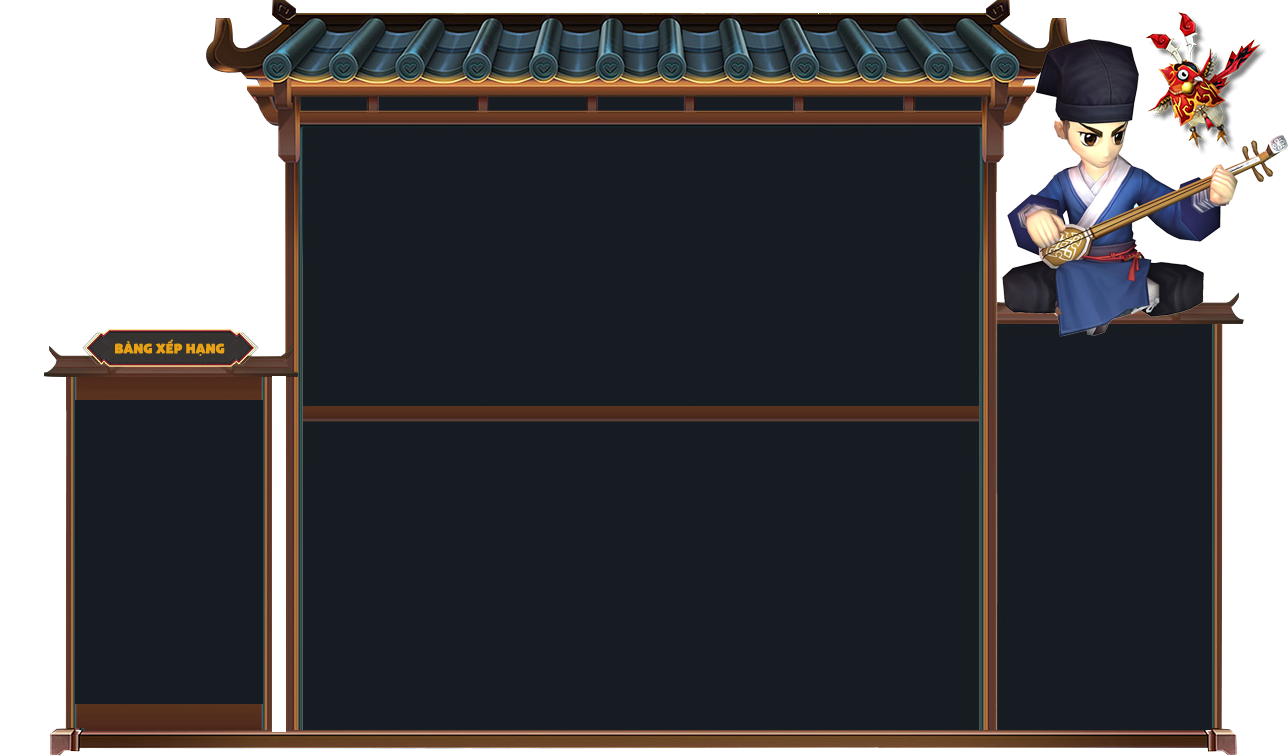
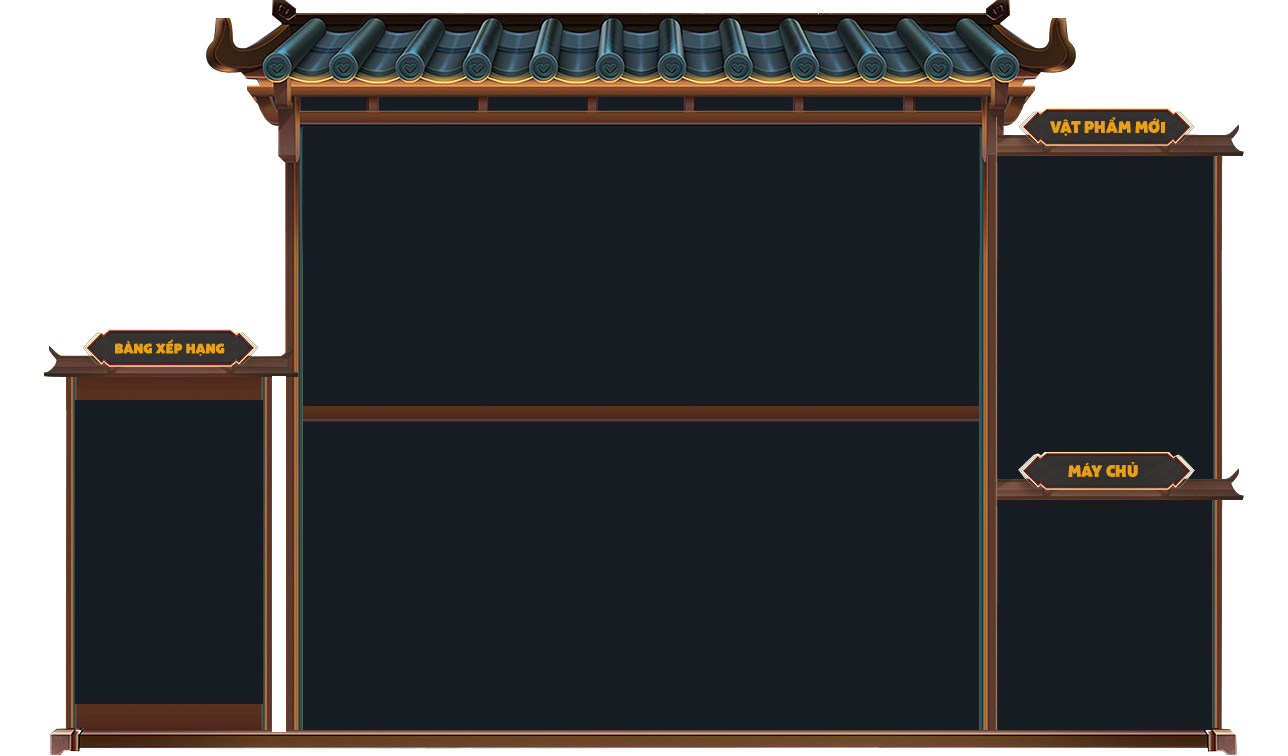
add modules

Changed region(s): [[0.7453, 0.0, 1.0, 0.4563], [0.7764, 0.578, 0.9627, 0.6693]]

diff --git a/assets/css/styles.css b/assets/css/styles.css
@@ -507,43 +507,12 @@ a:hover{
 .box-home-wrap__right{
 	width: 20.4rem;
 	right: 8rem;
-	top: 33.5rem;
+	top: 16.5rem;
 	position: absolute;
+	color: #ddd;
 }
 
-.lst-link{
-	margin: 2rem 0;
-}
-.lst-link li a{
-	padding: 1rem 0 1rem 4rem;
-	display: block;
-}
-.lst-link li{
-	position: relative;
-}
-.lst-link li + li::before{
-	content: "";
-	position: absolute;
-	width: 100%;
-	left: 50%;
-	top: 0;
-	height: 1px;
-	opacity: 0.5;
-	background-image: -moz-linear-gradient( 180deg, rgba(236,237,234,0) 0%, rgb(220,220,220) 49%, rgb(220,220,220) 50%, rgba(220,219,216,0) 100%);
-	background-image: -webkit-linear-gradient( 180deg, rgba(236,237,234,0) 0%, rgb(220,220,220) 49%, rgb(220,220,220) 50%, rgba(220,219,216,0) 100%);
-	background-image: -ms-linear-gradient( 180deg, rgba(236,237,234,0) 0%, rgb(220,220,220) 49%, rgb(220,220,220) 50%, rgba(220,219,216,0) 100%);
-	  
-	transform: translateX(-50%);
-}
-.lst-link li a img{
-	margin-right: 1rem;
-	width: 2rem;
-}
-.lst-icon{
-	display: flex;
-	gap: 2rem;
-	justify-content: center;
-}
+
 .box-home-wrap__center{
 	margin: 0 auto;
 	width: 68rem;
@@ -587,6 +556,23 @@ a:hover{
 	left: 7.5rem;
 	height: 30.4rem;
 	width: 18.8rem;
+}
+.box-ranking .img-light{
+	position: absolute;
+	left: -8.5rem;
+	top: -3rem;
+	pointer-events: none;
+	transform: rotate(4deg);
+	animation: lunglay 3s infinite alternate ease-in-out;
+	transform-origin: center top;
+}
+@keyframes lunglay {
+	0%{
+		transform: rotate(3deg);
+	}
+	100%{
+		transform: rotate(-3deg);
+	}
 }
 .box-ranking table{
 	width: 100%;
@@ -782,4 +768,140 @@ a:hover{
 	border-left: 4px solid #dab979;
 	font-size: 2rem;
 	margin-bottom: 3.2rem;
+}
+
+.l-footer__wrapper{
+	display: flex;
+	justify-content: space-between;
+}
+
+.lst-link{
+	display: flex;
+	justify-self: center;
+}
+.lst-link li a{
+	padding: 1rem 2rem;
+	display: block;
+}
+.lst-link li{
+	position: relative;
+}
+.lst-link li + li::before{
+	content: "";
+	position: absolute;
+	width: 100%;
+	left: 0;
+	top:  50%;
+	height: 2rem;
+	width: 1px;
+	opacity: 0.2;
+	transform: translateY(-50%);
+	background-image: -moz-linear-gradient( 90deg, rgba(236,237,234,0) 0%, rgb(220,220,220) 49%, rgb(220,220,220) 50%, rgba(220,219,216,0) 100%);
+	background-image: -webkit-linear-gradient( 90deg, rgba(236,237,234,0) 0%, rgb(220,220,220) 49%, rgb(220,220,220) 50%, rgba(220,219,216,0) 100%);
+	background-image: -ms-linear-gradient( 90deg, rgba(236,237,234,0) 0%, rgb(220,220,220) 49%, rgb(220,220,220) 50%, rgba(220,219,216,0) 100%);
+}
+/* .lst-link li + li::before{
+	content: "";
+	position: absolute;
+	width: 100%;
+	left: 50%;
+	top: 0;
+	height: 1px;
+	opacity: 0.5;
+	background-image: -moz-linear-gradient( 180deg, rgba(236,237,234,0) 0%, rgb(220,220,220) 49%, rgb(220,220,220) 50%, rgba(220,219,216,0) 100%);
+	background-image: -webkit-linear-gradient( 180deg, rgba(236,237,234,0) 0%, rgb(220,220,220) 49%, rgb(220,220,220) 50%, rgba(220,219,216,0) 100%);
+	background-image: -ms-linear-gradient( 180deg, rgba(236,237,234,0) 0%, rgb(220,220,220) 49%, rgb(220,220,220) 50%, rgba(220,219,216,0) 100%);
+	transform: translateX(-50%);
+} */
+.lst-link li a img{
+	margin-right: 1rem;
+	width: 2rem;
+}
+.lst-icon{
+	display: flex;
+	gap: 2rem;
+	justify-content: center;
+}
+
+.box-shop li{
+	display: flex;
+	padding: 0.8rem 1rem;
+}
+.box-shop li .img{
+	margin-right: 1rem;
+}
+.box-shop li .name{
+	display: block;
+	font-size: 12px;
+	color: #bfa36d;
+	white-space: nowrap;
+	text-overflow: ellipsis;
+	width: 12em;
+	line-height: 1;
+	overflow: hidden;
+}
+.box-shop li .price{
+	font-size: 12px;
+	display: flex;
+	align-items: center;
+	color: #aaa;
+}
+.box-shop li .price img{
+	margin-right: 0.4rem;
+}
+.box-shop li.more{
+	font-size: 1.2rem;
+	color: #d8c525;
+}
+.box-shop li.more a{
+	font-size: 1.2rem;
+	color: #d8c525;
+}
+.box-chanel{
+	margin-top: 10rem;
+}
+.box-chanel li + li::before{
+	content: "";
+	position: absolute;
+	width: 100%;
+	left: 50%;
+	top: 0;
+	height: 1px;
+	opacity: 0.5;
+	background-image: -moz-linear-gradient( 180deg, rgba(236,237,234,0) 0%, rgb(220,220,220) 49%, rgb(220,220,220) 50%, rgba(220,219,216,0) 100%);
+	background-image: -webkit-linear-gradient( 180deg, rgba(236,237,234,0) 0%, rgb(220,220,220) 49%, rgb(220,220,220) 50%, rgba(220,219,216,0) 100%);
+	background-image: -ms-linear-gradient( 180deg, rgba(236,237,234,0) 0%, rgb(220,220,220) 49%, rgb(220,220,220) 50%, rgba(220,219,216,0) 100%);
+	transform: translateX(-50%);
+}
+.box-chanel li {
+	position: relative;
+	padding: 1rem 0 1rem 5rem;
+}
+.box-chanel li p{
+	display: flex;
+	align-items: center;
+	gap: 2rem;
+}
+.box-chanel li span{
+	display: inline-block;
+	width: 1.6rem;
+	height: 1.6rem;
+	border-radius: 50%;
+	background: #959595;
+}
+
+.box-chanel li span.online {
+	background-color: rgb(27, 246, 11);
+	box-shadow: 0px 0px 11.83px 1.17px rgba(138, 254, 129, 0.49);
+	animation: blur 1s infinite ease-in-out alternate;
+}
+@keyframes blur {
+	0%{
+		opacity: 0.7;
+		box-shadow: 0px 0px 3px 1.17px rgba(138, 254, 129, 0.49);
+	}
+	100%{
+		opacity: 1;
+		box-shadow: 0px 0px 11px 3px rgba(138, 254, 129, 0.49);
+	}
 }

diff --git a/home.php b/home.php
@@ -57,6 +57,7 @@
 				</tbody>
 			</table>
 			<a href="/?a=ranking" class="btn-rank-more"><img src="/assets/images/server-more.png" alt="more"></a>
+			<img src="/assets/images/lights.png" alt="" class="img-light">
 		</div>
 		<div class="box-home-wrap__center">
 			<div class="box-banner">
@@ -90,16 +91,71 @@
 			</div>
 		</div>
 		<div class="box-home-wrap__right">
-			<ul class="lst-link">
-				<li><a href="/?a=webshop"><img src="/assets/images/icn-shop.png" alt="">Cửa Hàng</a></li>
-				<li><a href="https://www.facebook.com/ThoLamGames" target="_blank"><img src="/assets/images/icn-support.png" alt="">Hỗ Trợ</a></li>
-				<li><a href="https://www.facebook.com/ThoLamGames" target="_blank"><img src="/assets/images/icn-fb2.png" alt="">Fanpage</a></li>
-				<li><a href="https://www.facebook.com/ThoLamGames" target="_blank"><img src="/assets/images/icn-group.png" alt="">FB Group</a></li>
-			</ul>
-			<ul class="lst-icon">
-				<li><a href="https://www.facebook.com/ThoLamGames" target="_blank"><img src="/assets/images/icn-fb.png" alt=""></a></li>
-				<li><a href="#" target="_blank"><img src="/assets/images/icn-zalo.png" alt=""></a></li>
-			</ul>
+			<div class="box-shop">
+				<ul>
+					<li title="Búp bê mèo may mắn. EXP +20%, Rớt đồ +20%, Tiền +40%, HP +100 trong 2 giờ(10 lần sử dụng)">
+						<div class="img"><img src="/assets/images/shop/1008000232.gif" alt=""></div>
+						<p>
+							<span class="name">Mèo Tài Phú</span>
+							<span class="price"><img src="/assets/images/shop/coin.png" alt=""> 800</span>
+						</p>
+					</li>
+					<li title="Trong vòng 24 giờ nhận thêm 150% điểm Exp (Level có thể dùng: 1~130, có thể dùng 1 lần)">
+						<div class="img"><img src="/assets/images/shop/1008000363.gif" alt=""></div>
+						<p>
+							<span class="name">Hộ tâm đơn (150%) (24 giờ)</span>
+							<span class="price"><img src="/assets/images/shop/coin.png" alt=""> 800</span>
+						</p>
+					</li>
+					<li title="Đạo cụ đặc biệt, tăng lực công kích 15%, sức phòng ngự 15%, sinh lực 1000, điểm kinh nghiệm 40%, lực công kích võ công 10%, sức phòng ngự võ công 10%">
+						<div class="img"><img src="/assets/images/shop/1008000194.gif" alt=""></div>
+						<p>
+							<span class="name">Chí Tôn Hỏa Dương Đơn</span>
+							<span class="price"><img src="/assets/images/shop/coin.png" alt=""> 800</span>
+						</p>
+					</li>
+					<li title="+300 Hp tất cả khí công + 1">
+						<div class="img"><img src="/assets/images/shop/1008000187.gif" alt=""></div>
+						<p>
+							<span class="name">Thái Cuồng Đơn (10 ngày)</span>
+							<span class="price"><img src="/assets/images/shop/coin.png" alt=""> 800</span>
+						</p>
+					</li>
+					<li title="Trong 10 ngày + 300 HP 0,5% Def cho nhân vật.">
+						<div class="img"><img src="/assets/images/shop/1008000183.gif" alt=""></div>
+						<p>
+							<span class="name">Cầu Tuyết đơn(10 ngày)</span>
+							<span class="price"><img src="/assets/images/shop/coin.png" alt=""> 800</span>
+						</p>
+					</li>
+					<li class="more">
+						<a href="/?a=webshop">+ Xem thêm</a>
+					</li>
+				</ul>
+			</div>
+
+			<div class="box-chanel">
+				<ul>
+					<li>
+						<p>
+							Kênh 1
+							<span class="<?php if(isset($kenh1) && $kenh1 == true) echo 'online'; ?>"></span>
+						</p>
+					</li>
+					<li>
+						<p>
+							Kênh 2
+							<span class="<?php if(isset($kenh2) && $kenh2 == true) echo 'online'; ?>"></span>
+						</p>
+					</li>
+					<li>
+						<p>
+							Kênh 3
+							<span class="<?php if(isset($kenh3) && $kenh3 == true) echo 'online'; ?>"></span>
+						</p>
+					</li>
+				</ul>
+			</div>
 		</div>
 	</div>
 </div>

diff --git a/assets/include/footer.php b/assets/include/footer.php
@@ -1,6 +1,23 @@
 <footer class="l-footer">
 	<div class="wrp-container">
-		<p class="right">&copy; Hiệp Khách VNC Games Entertainment. <?php echo date('Y');?></p>
-		<p class="right">hiepkhach.net.vn</p>
+		<div class="l-footer__wrapper">
+			<div class="l-footer__nav">
+				<ul class="lst-link">
+					<li><a href="/?a=webshop"><img src="/assets/images/icn-shop.png" alt="">Cửa Hàng</a></li>
+					<li><a href="https://www.facebook.com/ThoLamGames" target="_blank"><img src="/assets/images/icn-support.png" alt="">Hỗ Trợ</a></li>
+					<li><a href="https://www.facebook.com/ThoLamGames" target="_blank"><img src="/assets/images/icn-fb2.png" alt="">Fanpage</a></li>
+					<li><a href="https://www.facebook.com/ThoLamGames" target="_blank"><img src="/assets/images/icn-group.png" alt="">FB Group</a></li>
+					<li><a href="#" target="_blank"><img src="/assets/images/icn-zalo.png" alt=""></a></li>
+				</ul>
+				<!-- <ul class="lst-icon">
+					<li><a href="https://www.facebook.com/ThoLamGames" target="_blank"><img src="/assets/images/icn-fb.png" alt=""></li>
+					<li><a href="#" target="_blank"><img src="/assets/images/icn-zalo.png" alt=""></a></li>
+				</ul> -->
+			</div>
+			<div class="l-footer__copyright">
+				<p class="right">&copy; Hiệp Khách VNC Games Entertainment. <?php echo date('Y');?></p>
+				<p class="right">hiepkhach.net.vn</p>
+			</div>
+		</div>
 	</div>
 </footer>

diff --git a/include/gameconn.php b/include/gameconn.php
@@ -2,9 +2,15 @@
 // $myServer = "WIN-CLJ1B0GQ6JP";
 // $myUser = "sa";
 // $myPass = "Zaq@1234567890987123456zxc";
-$myServer = "DESKTOP-90U54L9\SQLEXPRESS";
+$myServer = "SOMEONE\SQLEXPRESS";
 $myUser = "sa";
 $myPass = "896584";
 $myDB = "rxjhgame"; 
 $dbhandlegame = odbc_connect("Driver={SQL Server Native Client 11.0};Server=$myServer;Database=$myDB;", $myUser, $myPass);//mssql_connect($myServer, $myUser, $myPass) or die("Couldn't connect to SQL Server on $myServer". mssql_get_last_message());
+
+
+//Config kenh online
+$kenh1 = true;
+$kenh2 = false;
+$kenh3 = false;
 ?>

diff --git a/include/conn.php b/include/conn.php
@@ -2,7 +2,7 @@
 // $myServer = "WIN-CLJ1B0GQ6JP";
 // $myUser = "sa";
 // $myPass = "Zaq@1234567890987123456zxc";
-$myServer = "DESKTOP-90U54L9\SQLEXPRESS";
+$myServer = "SOMEONE\SQLEXPRESS";
 $myUser = "sa";
 $myPass = "896584";
 $myDB = "rxjhaccount";
